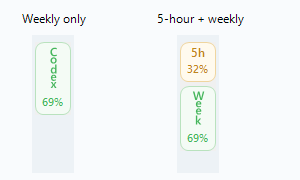
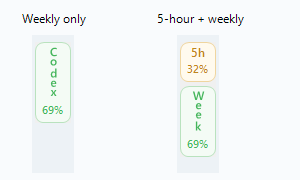
Increase vertical letter spacing for sidebar indicator

Changed region(s): [[0.09, 0.3056, 0.24, 0.6944], [0.6, 0.5556, 0.72, 0.8889]]

diff --git a/src/CodexUsagePill.cs b/src/CodexUsagePill.cs
@@ -629,6 +629,7 @@ namespace CodexUsagePill
 
     internal sealed class PillForm : Form
     {
+        private const float LetterGap = 3f;
         private readonly ToolTip tooltip;
         private readonly bool standalonePreview;
         private readonly Font percentFont;
@@ -754,7 +755,7 @@ namespace CodexUsagePill
                                 glyph.Transform(transform);
                             }
                             graphics.FillPath(brush, glyph);
-                            y += ink.Height + 1f;
+                            y += ink.Height + LetterGap;
                         }
                     }
                 }
@@ -783,8 +784,8 @@ namespace CodexUsagePill
             float height = 0;
             foreach (char letter in word)
                 using (GraphicsPath glyph = LetterPath(letter))
-                    height += glyph.GetBounds().Height + 1f;
-            return (int)Math.Ceiling(height - 1f);
+                    height += glyph.GetBounds().Height + LetterGap;
+            return (int)Math.Ceiling(height - LetterGap);
         }
 
         private void UpdateLayout()

diff --git a/tests/LayoutTests.cs b/tests/LayoutTests.cs
@@ -21,6 +21,8 @@ namespace CodexUsagePill
             {
                 using (var form = new PillForm(true))
                 {
+                    Check((float)typeof(PillForm).GetField("LetterGap", BindingFlags.Static | BindingFlags.NonPublic)
+                        .GetRawConstantValue() == 3f, "three-pixel letter spacing");
                     UsageSnapshot weekly = Parse("{\"rateLimits\":{\"primary\":{\"usedPercent\":31,\"windowDurationMins\":10080},\"secondary\":null}}");
                     form.ApplySnapshot(weekly);
                     Check(form.TrayText == "Codex remaining: 69%", "weekly-only percentage");

diff --git a/README.md b/README.md
@@ -15,7 +15,7 @@ A tiny, unofficial Windows sidebar overlay that shows Codex usage remaining and 
 - Automatically switches layouts after plan upgrades, downgrades, or changes to the account's usage windows.
 - Remains visible when you work on another monitor, but stays below any window that covers Codex.
 - Uses a 36-pixel-wide indicator that starts in the left icon rail, above the account avatar, and can be dragged inside the Codex window.
-- Stacks each letter of `Codex` and `Week` with a 1-pixel gap between the visible letter shapes; percentages remain horizontal.
+- Stacks each letter of `Codex` and `Week` with a 3-pixel gap between the visible letter shapes; percentages remain horizontal.
 - Remembers its position between launches.
 - Shows 5-hour and weekly windows, reset times, and last refresh time on hover.
 - Changes each window's text, background, and border independently from green to amber below 50% and red below 20%.

diff --git a/docs/PROJECT_HISTORY.md b/docs/PROJECT_HISTORY.md
@@ -25,7 +25,7 @@ The first versions proved the data path and window tracking. Later iterations ad
 7. a final physical size of `102 × 29` pixels, matching the compact reference design;
 8. top-level window enumeration after a Codex update added a small auxiliary window that could otherwise capture the pill's position;
 9. native Windows event-triggered startup and process exit after Codex closes, without a resident watcher;
-10. a 36-pixel-wide vertical indicator for the new left icon rail, with 1-pixel gaps between letter shapes and automatic weekly-only or five-hour/weekly layouts based on returned window durations.
+10. a 36-pixel-wide vertical indicator for the new left icon rail, with automatic weekly-only or five-hour/weekly layouts based on returned window durations. Letter gaps were increased from 1 to 3 pixels after visual feedback to give Codex and Week a taller, less compressed appearance.
 
 ## Typography
 

diff --git a/CHANGELOG.md b/CHANGELOG.md
@@ -5,7 +5,7 @@ All notable changes to this project are documented here.
 ## 1.1.0 - 2026-10-01
 
 - Move the default indicator into the new Codex left icon rail, above the account avatar.
-- Render Codex and Week vertically with a compact 1-pixel gap between letter shapes.
+- Render Codex and Week vertically with a 3-pixel gap between letter shapes for a taller, less compressed appearance.
 - Automatically show weekly-only or stacked five-hour and weekly layouts based on the actual account windows, including after plan changes.
 - Identify windows by duration and prefer the named Codex rate-limit bucket over the legacy response.
 - Color each window's text, background, and border independently.
